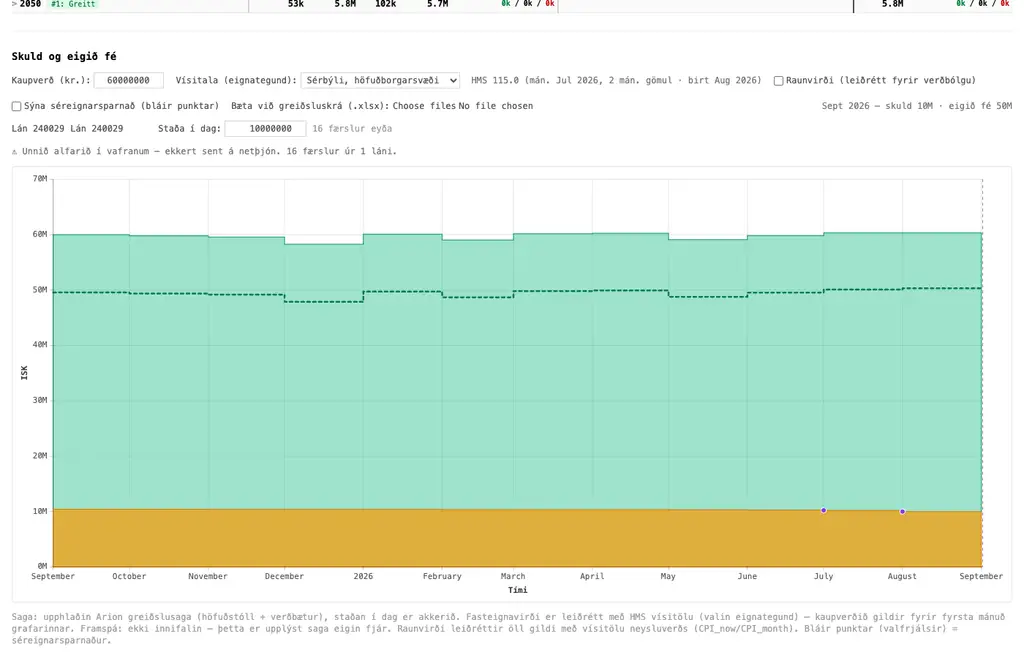
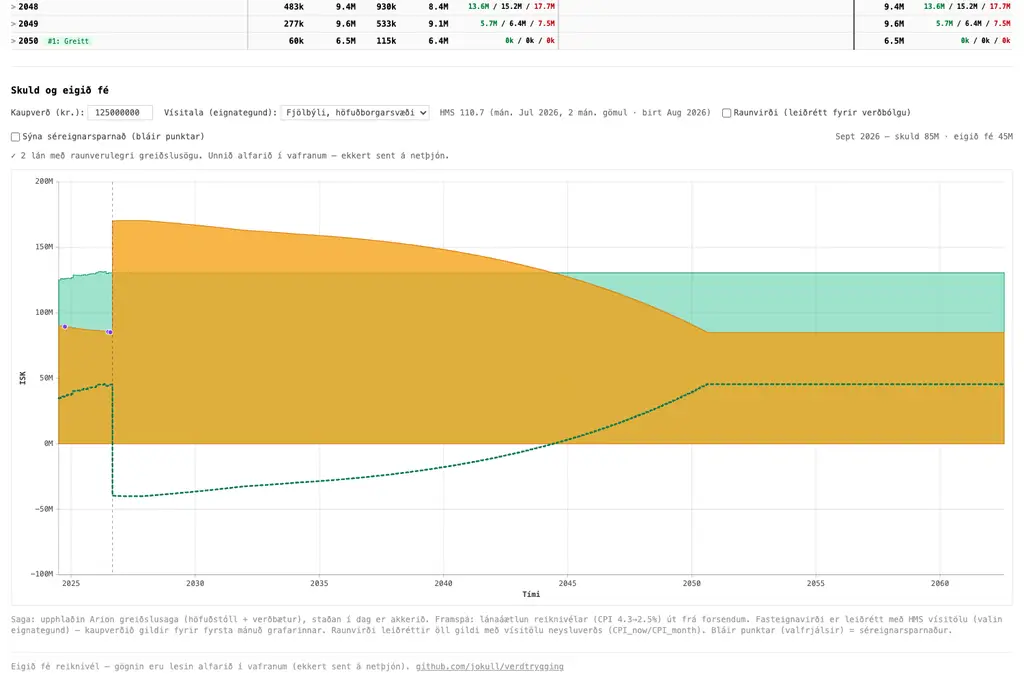
docs: refresh screenshot; README how-it-works for unified loan model; coherent default purchase price

diff --git a/src/components/DebtEquityChart.tsx b/src/components/DebtEquityChart.tsx
@@ -112,7 +112,9 @@ interface Props {
 }
 
 export function DebtEquityChart({ loans, assumptions }: Props) {
-  const [purchasePrice, setPurchasePrice] = useState(60_000_000); // anonymized default
+  // Anonymized default — high enough that equity (property − debt) is positive
+  // with the ~77M anonymized loan totals.
+  const [purchasePrice, setPurchasePrice] = useState(125_000_000);
   const [hmsKey, setHmsKey] = useState("fjolbyliCap");
   const [real, setReal] = useState(false);
   const [showPension, setShowPension] = useState(false);

diff --git a/README.md b/README.md
@@ -1,4 +1,12 @@
+# Verðtrygging — eigið fé reiknivél
+
+A client-side Vite + React SPA for tracking how your **equity** in an
+index-linked (verðtryggt) mortgage develops over time. Extracted from the
+`home` monorepo calculator and made standalone + anonymized.
+
 **[Live at lanareiknivel.solberg.club](https://lanareiknivel.solberg.club)** · [GitHub](https://github.com/jokull/verdtrygging)
+
+![Debt & equity chart](docs/screenshot.png)
 
 ## Stack
 
@@ -14,29 +22,34 @@ No backend, no server, no telemetry. The workbook never leaves the browser.
 
 ## How it works
 
-1. **Blank until upload.** The chart section shows a prompt ("Want to view how
-   your equity has developed? Upload payment history — no data is shared or
-   uploaded, it stays in your browser") until the user uploads an `.xlsx`.
-2. **Uploads stack by loan.** Every distinct `Lánsnúmer` (loanId) across all
-   uploaded files becomes its own loan series. Re-uploading the same rows does
-   not double-count (dedupe by date + principal + indexation).
-3. **Debt is reconstructed backward.** For each loan series the user enters its
-   current balance ("staða í dag"); the monthly debt curve is walked backward
-   from there using each month's höfuðstóll (principal) and verðbætur
-   (indexation) — `balance_before = balance_after − indexation + principal`.
+1. **Loans are the source of truth.** Each loan is defined by its manual terms
+   (current balance, APR, remaining months, method, extra payments) — the same
+   fields the repayment schedule uses. Enter them in the loan card.
+2. **Payment history is optional enrichment.** Each loan card can attach a real
+   Arion "LoanPayments" `.xlsx` export. The upload hydrates the loan's
+   `Lánsnúmer`, origination principal and start month (from the `Útgreiðsla`
+   disbursement row) and stores the real monthly ledger. The manual balance
+   stays the single anchor. Attach / detach per card.
+3. **Chart = derived view.** For each loan: real past (if history attached,
+   reconstructed backward from the balance — `balance_before = balance_after −
+   indexation + principal`) + forward projection (from the loan's terms via the
+   same engine the schedule table uses), joined at today. A loan shows a
+   projection even with no history; history just makes the past real.
 4. **Property is indexed by a real HMS series.** Pick a property type + region
    (fjölbýli / sérbýli × höfuðborgarsvæði / landsbyggð, or all-Iceland) from
-   the dropdown; the property value is anchored so `kaupverð` is the value at
-   the chart's first month and scales by the HMS index. A badge shows how fresh
-   the data is ("HMS 110.7 (mán. Jul 2026, 2 mán. gömul · birt Aug 2026)").
-   Equity = property − total debt.
+   the dropdown; property is anchored so `kaupverð` is the value at the chart's
+   first month and scales by the HMS index. A badge shows how fresh the data is
+   ("HMS 110.7 (mán. Jul 2026, 2 mán. gömul · birt Aug 2026)"). Equity =
+   property − total debt.
 5. **`today` is the real current date** — the "today" marker, the chart's right
    edge, and the loan defaults (startMonth, base-rate years) all derive from
    `new Date()`, not a baked-in snapshot.
 
-The monthly series lives in `src/data/hms-data.json` (generated); `src/data/hms.ts`
-is the logic wrapper (types, property-type options, per-month interpolation).
-The data is captured from hms.is `kaupvisitala.csv` (columns
+### HMS index data
+
+The monthly series lives in `src/data/hms-data.json` (generated);
+`src/data/hms.ts` is the logic wrapper (types, property-type options, per-month
+interpolation). The data is captured from hms.is `kaupvisitala.csv` (columns
 `VISITALA_FJOLBYLI_HOFUDBORGARSVAEDI`, `VISITALA_SERBYLI_*`, …). Seven series,
 monthly 2020-01 → 2026-07, all published Aug 2026.
 
@@ -80,6 +93,6 @@ bun run build
 # copy dist/ to a static server / CDN / wrangler pages
 ```
 
-The original `home` deployment serves `calculator/dist` behind Caddy on the
-mac-mini (`lanareiknivel.solberg.club`). This repo is standalone; point it at
-whatever static host you like and serve `dist/` as the root.
+The `home` deployment serves `calculator/dist` behind Caddy on the mac-mini
+(`lanareiknivel.solberg.club`). This repo is standalone; point it at whatever
+static host you like and serve `dist/` as the root.
